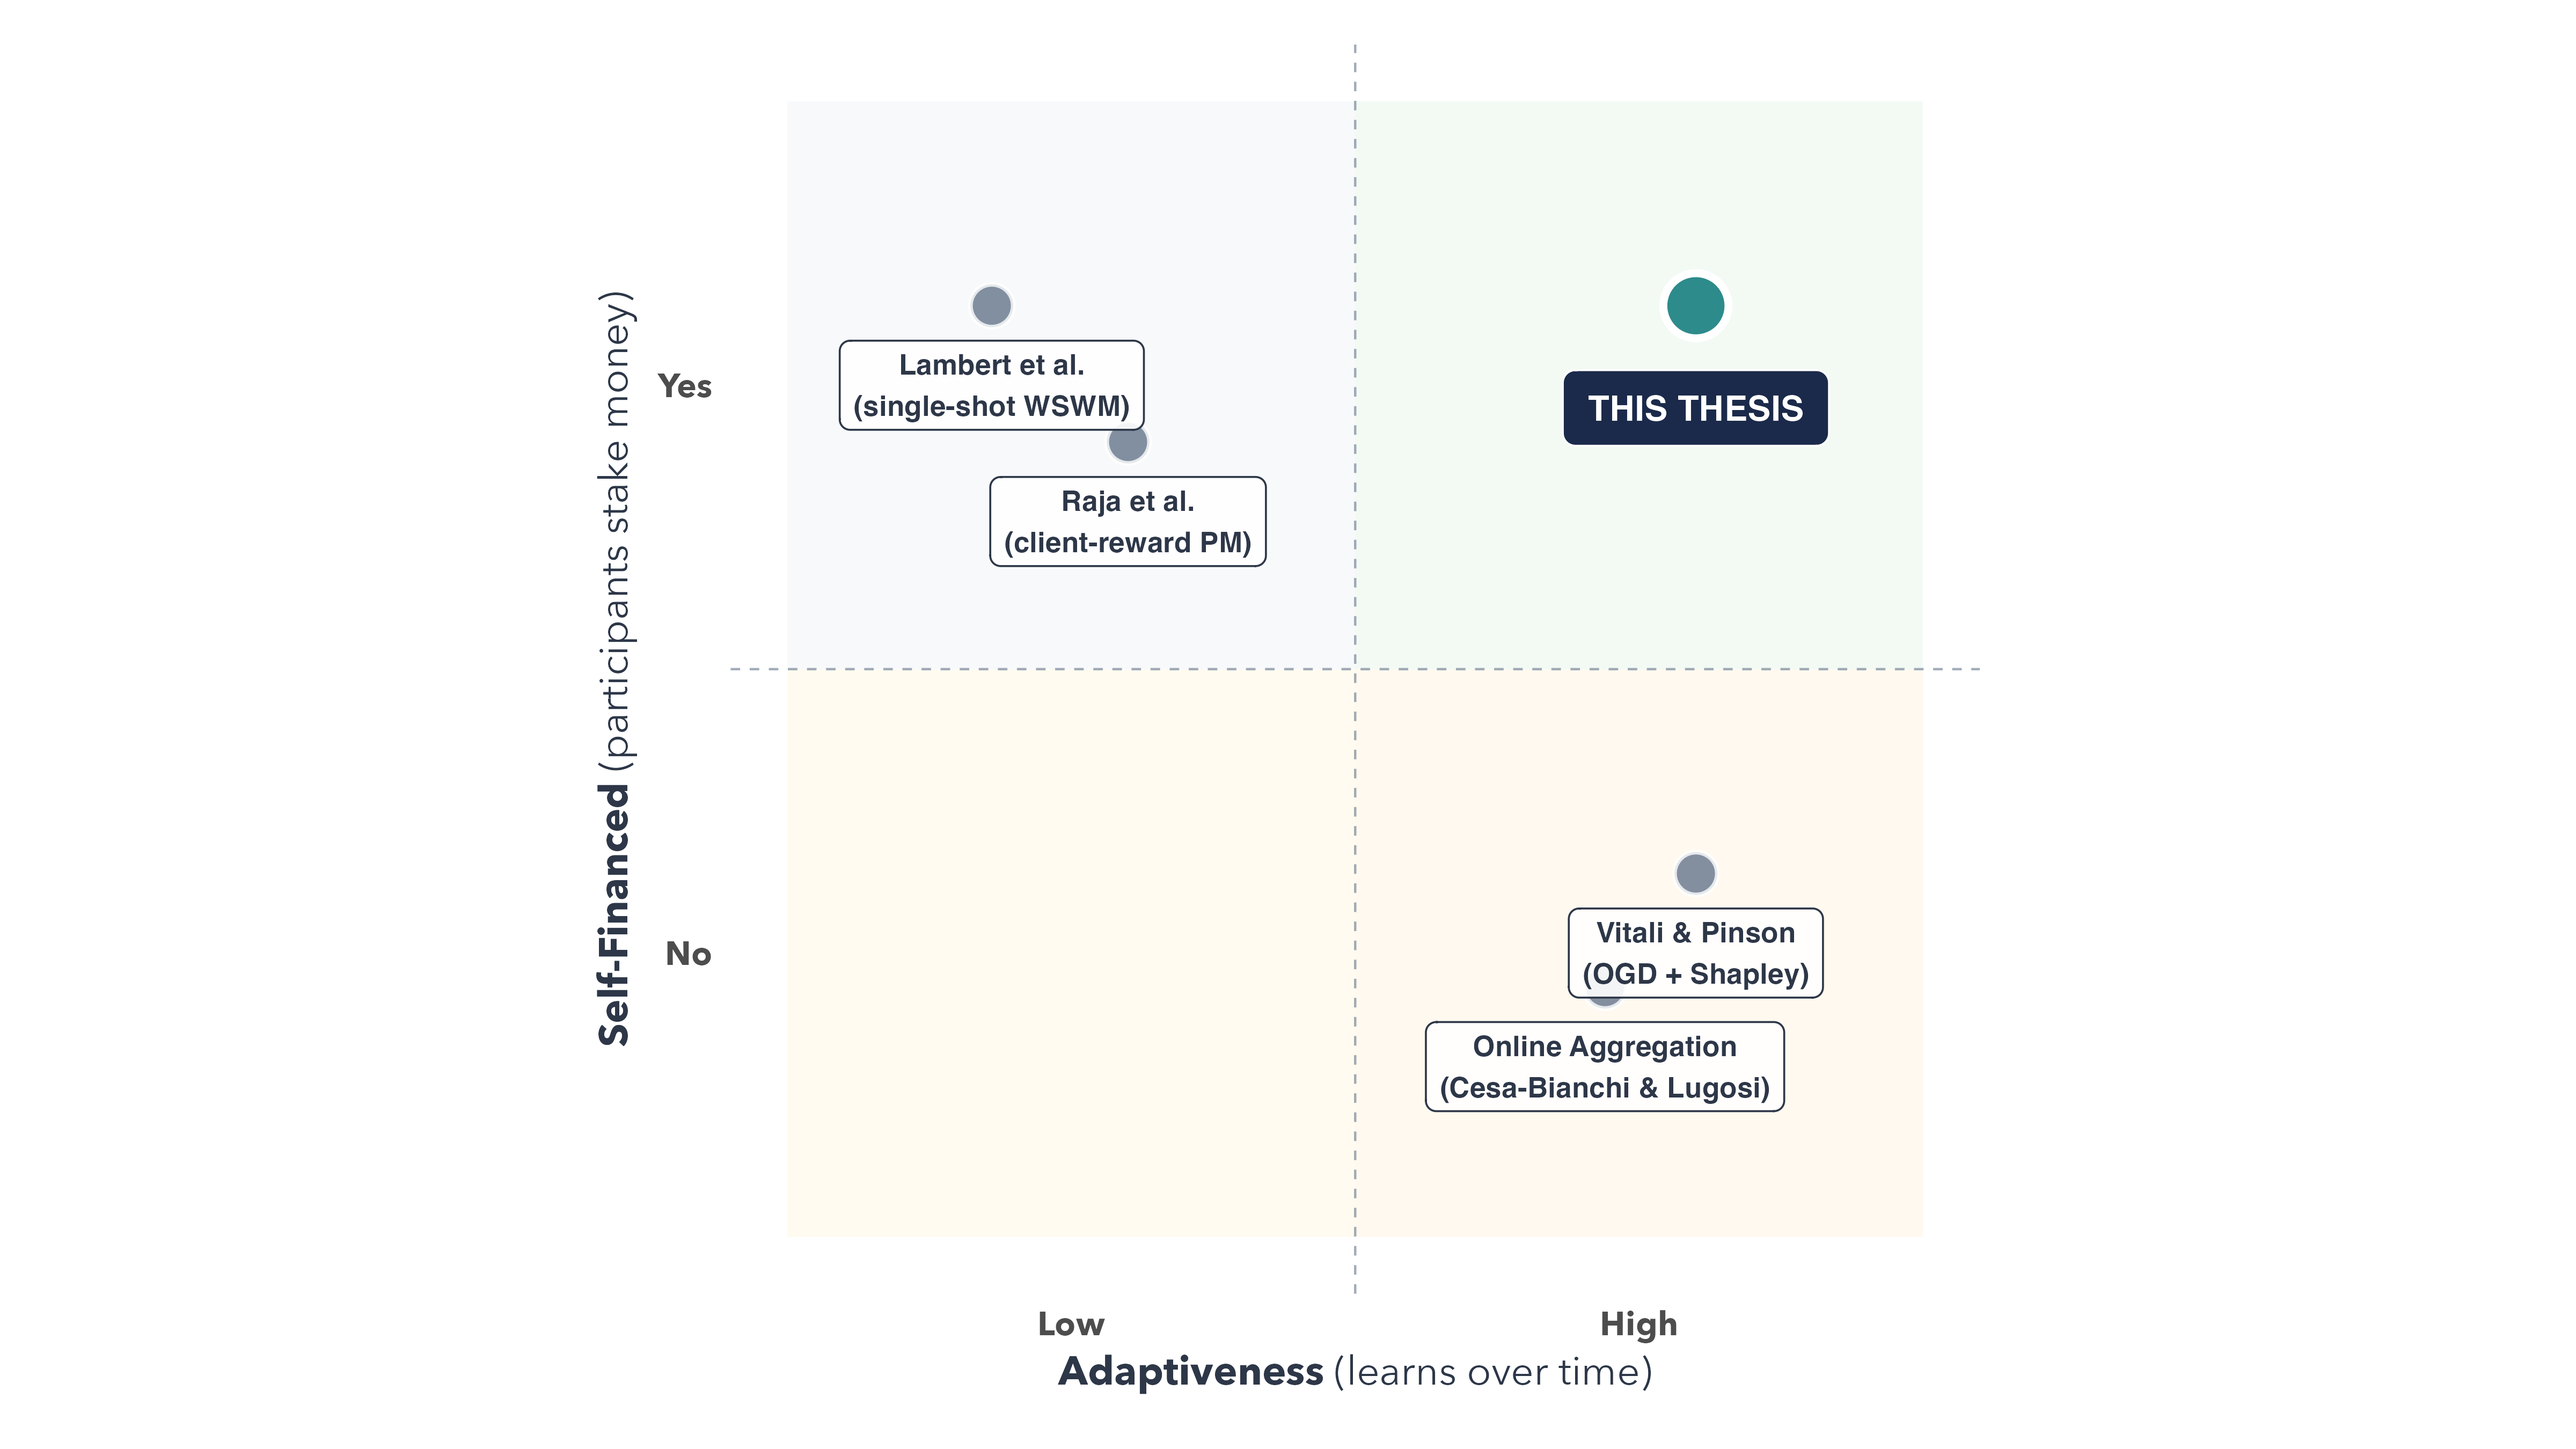
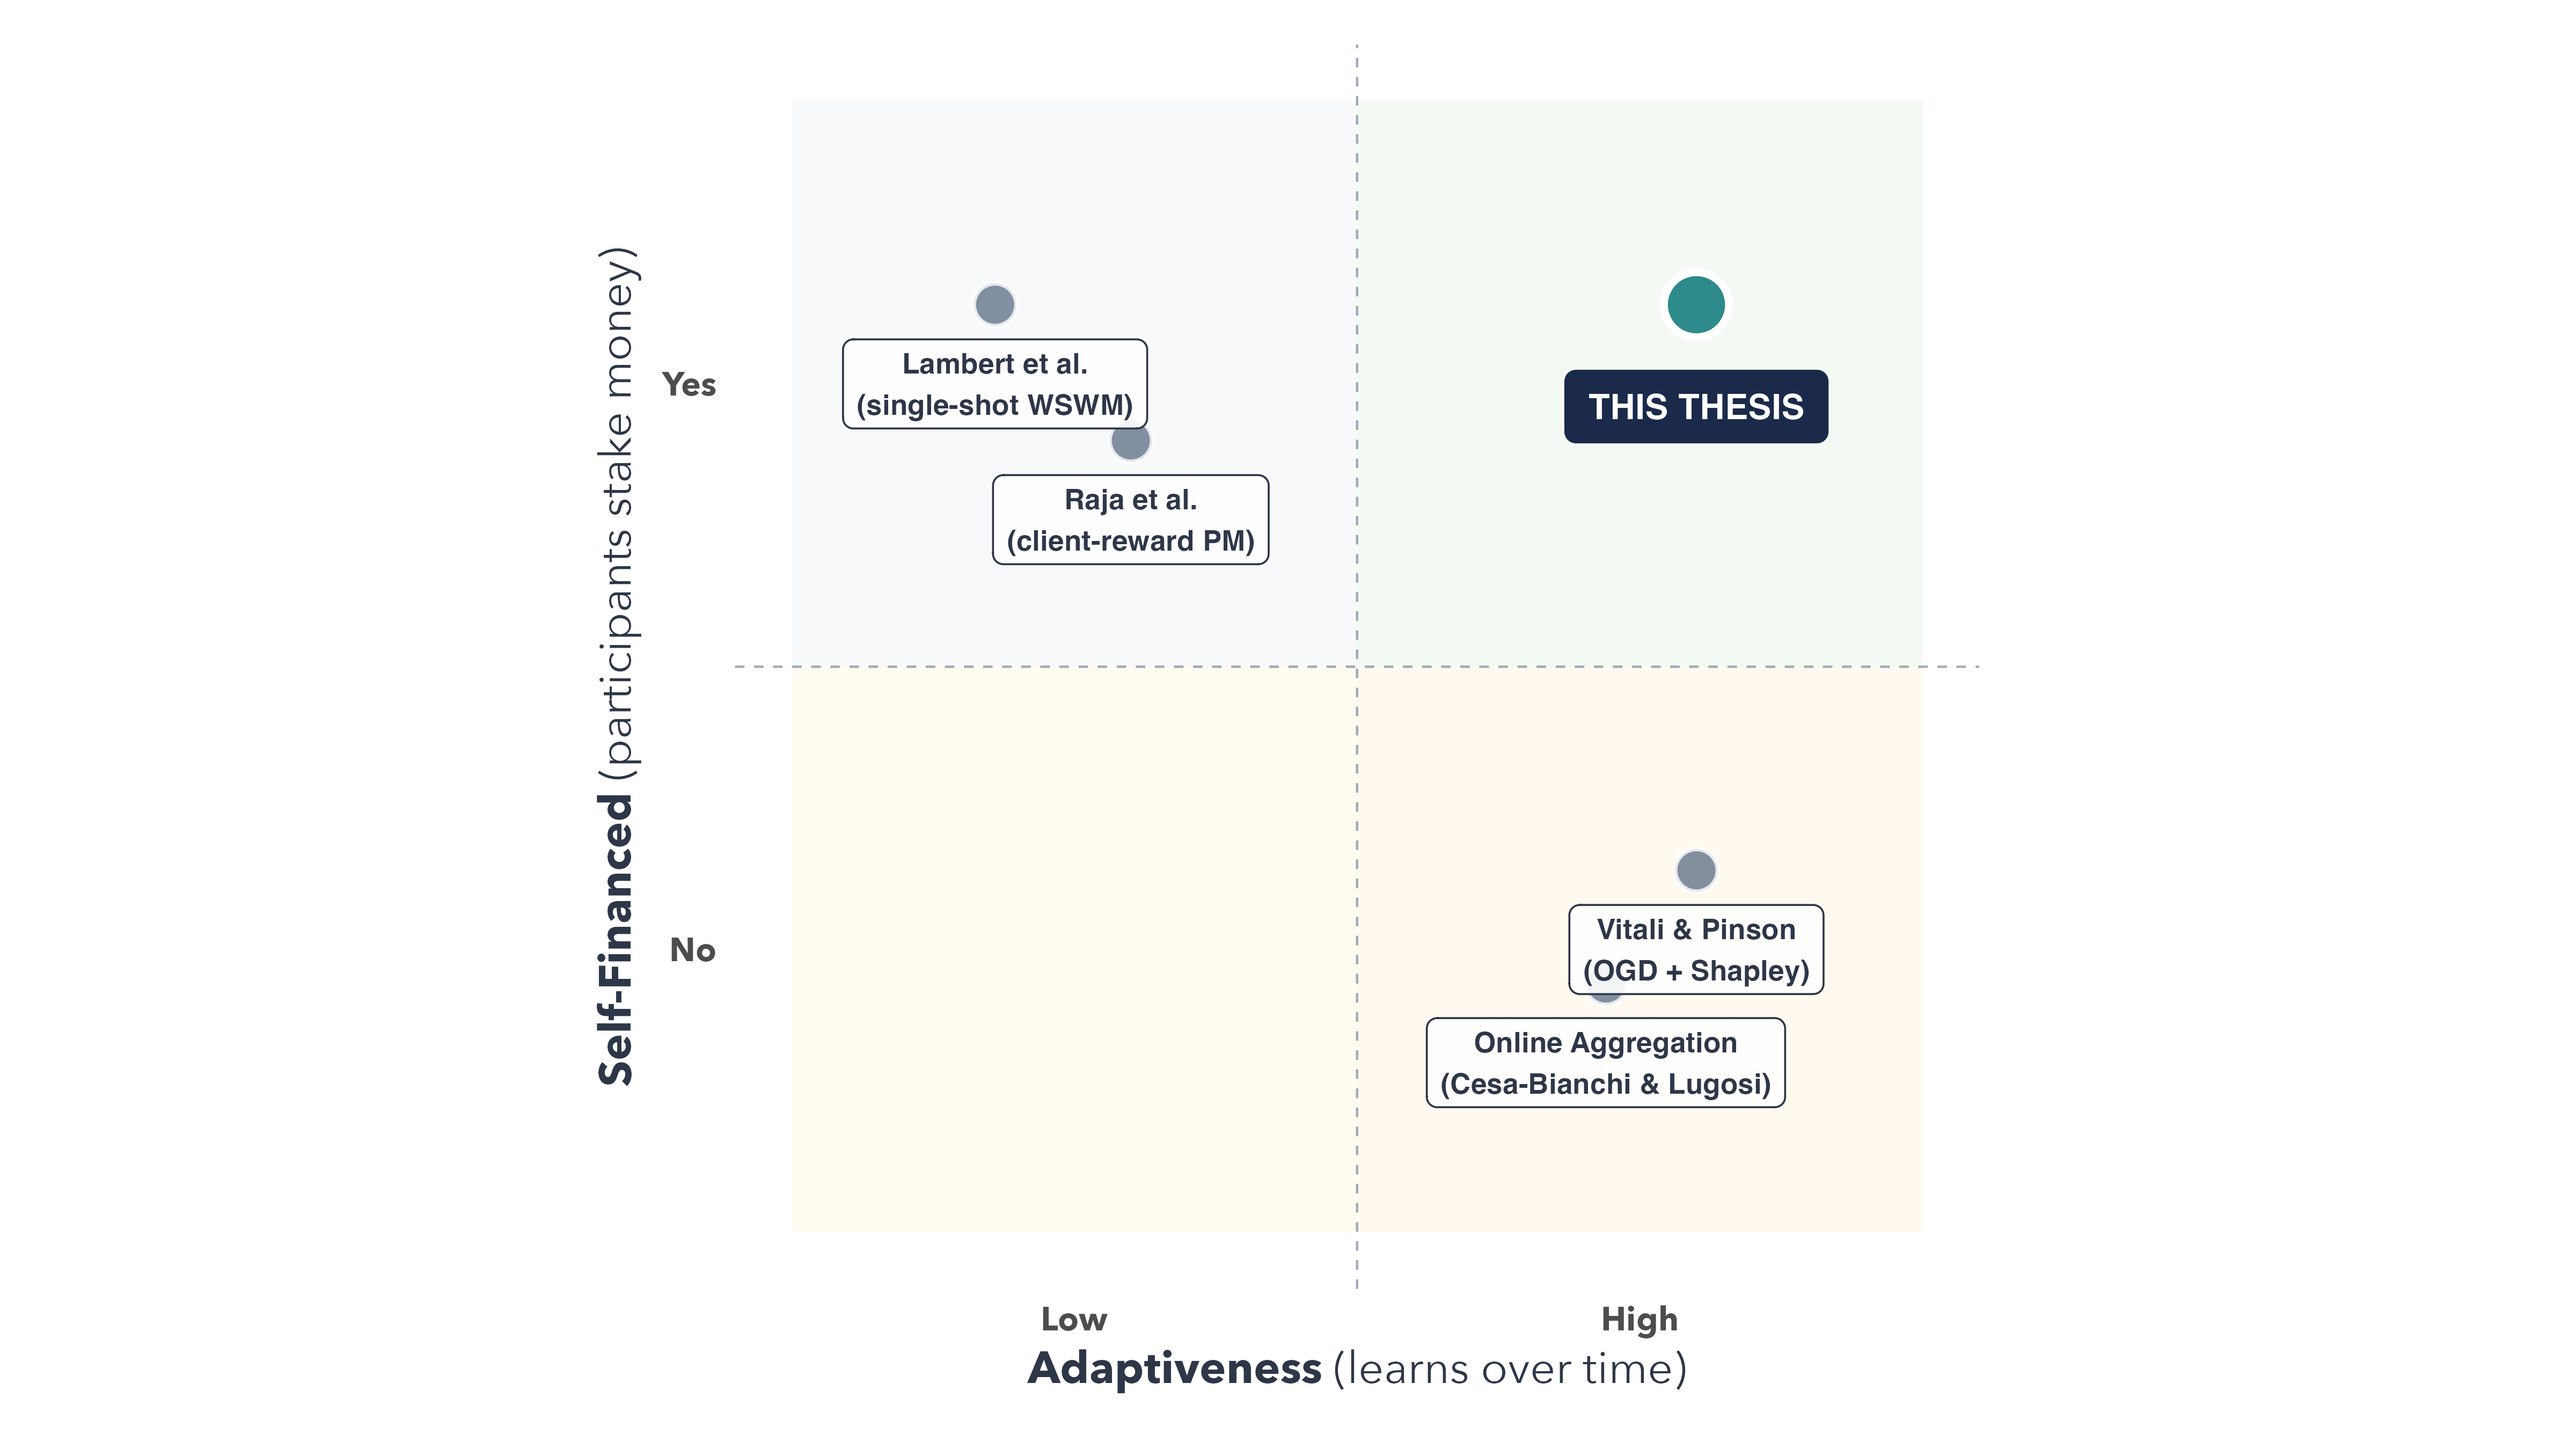
fix: remove arrow SVG from title, fix positioning matrix (Lambert+Raja both top-left), bigger graph text
- TitleSlide: remove abstract arrow SVG, keep clean title layout
- PositioningMatrixSlide: Lambert (x:25,y:22) and Raja (x:25,y:42) both in static+self-financed quadrant (top-left), Vitali in adaptive+not-self-financed (bottom-right x:75,y:75), THIS PROJECT in adaptive+self-financed (top-right x:75,y:22)
- R theme: axis title 20pt, axis text 18pt, legend 18pt — regenerated all 9 PNGs

diff --git a/dashboard/src/components/slides/TitleSlide.tsx b/dashboard/src/components/slides/TitleSlide.tsx
@@ -51,82 +51,6 @@ export default function TitleSlide() {
         }}
       />
 
-      {/* Abstract prediction market SVG — 3 forecast arrows converging into 1 */}
-      <div style={{ marginBottom: 40, opacity: 0.7 }}>
-        <svg
-          width="200"
-          height="80"
-          viewBox="0 0 200 80"
-          xmlns="http://www.w3.org/2000/svg"
-          aria-label="Three forecast arrows converging into one aggregated arrow"
-        >
-          <defs>
-            <marker
-              id="title-arrow-small"
-              markerWidth="6"
-              markerHeight="4"
-              refX="6"
-              refY="2"
-              orient="auto"
-            >
-              <polygon points="0 0, 6 2, 0 4" fill={PALETTE.teal} opacity="0.5" />
-            </marker>
-            <marker
-              id="title-arrow-big"
-              markerWidth="8"
-              markerHeight="6"
-              refX="8"
-              refY="3"
-              orient="auto"
-            >
-              <polygon points="0 0, 8 3, 0 6" fill={PALETTE.teal} />
-            </marker>
-          </defs>
-
-          {/* Three individual forecast arrows (left side) */}
-          <line
-            x1="20" y1="15" x2="80" y2="35"
-            stroke={PALETTE.teal}
-            strokeWidth="1.5"
-            opacity="0.45"
-            markerEnd="url(#title-arrow-small)"
-          />
-          <line
-            x1="20" y1="40" x2="80" y2="40"
-            stroke={PALETTE.teal}
-            strokeWidth="1.5"
-            opacity="0.45"
-            markerEnd="url(#title-arrow-small)"
-          />
-          <line
-            x1="20" y1="65" x2="80" y2="45"
-            stroke={PALETTE.teal}
-            strokeWidth="1.5"
-            opacity="0.45"
-            markerEnd="url(#title-arrow-small)"
-          />
-
-          {/* Small convergence circle */}
-          <circle
-            cx="95"
-            cy="40"
-            r="8"
-            fill="none"
-            stroke={PALETTE.teal}
-            strokeWidth="1.5"
-            opacity="0.5"
-          />
-
-          {/* Single aggregated arrow (right side) */}
-          <line
-            x1="108" y1="40" x2="180" y2="40"
-            stroke={PALETTE.teal}
-            strokeWidth="2.5"
-            markerEnd="url(#title-arrow-big)"
-          />
-        </svg>
-      </div>
-
       {/* Presenter name */}
       <p
         style={{

diff --git a/dashboard/src/components/slides/PositioningMatrixSlide.tsx b/dashboard/src/components/slides/PositioningMatrixSlide.tsx
@@ -17,9 +17,9 @@ interface MatrixNode {
 }
 
 const NODES: MatrixNode[] = [
-  { id: 'lambert', label: 'Lambert et al.', citation: 'Self-financed, static weights', detail: '7 properties, uniqueness theorem', x: 22, y: 25 },
-  { id: 'raja', label: 'Raja et al.', citation: 'Self-financed + client reward', detail: 'Payoff allocation, deposit-based', x: 22, y: 65 },
-  { id: 'vitali', label: 'Vitali & Pinson (2025)', citation: 'Adaptive, not self-financed', detail: 'Online regression, Shapley payoff', x: 72, y: 65 },
+  { id: 'lambert', label: 'Lambert et al.', citation: 'Self-financed, static weights', detail: '7 properties, uniqueness theorem', x: 25, y: 22 },
+  { id: 'raja', label: 'Raja et al.', citation: 'Self-financed + client reward', detail: 'Payoff allocation, deposit-based', x: 25, y: 42 },
+  { id: 'vitali', label: 'Vitali & Pinson', citation: 'Adaptive, not self-financed', detail: 'Online regression, Shapley payoff', x: 75, y: 75 },
   { id: 'thesis', label: 'THIS PROJECT', citation: 'Adaptive + self-financed', detail: 'EWMA skill + self-financed settlement', x: 75, y: 22, isThesis: true },
 ];
 
